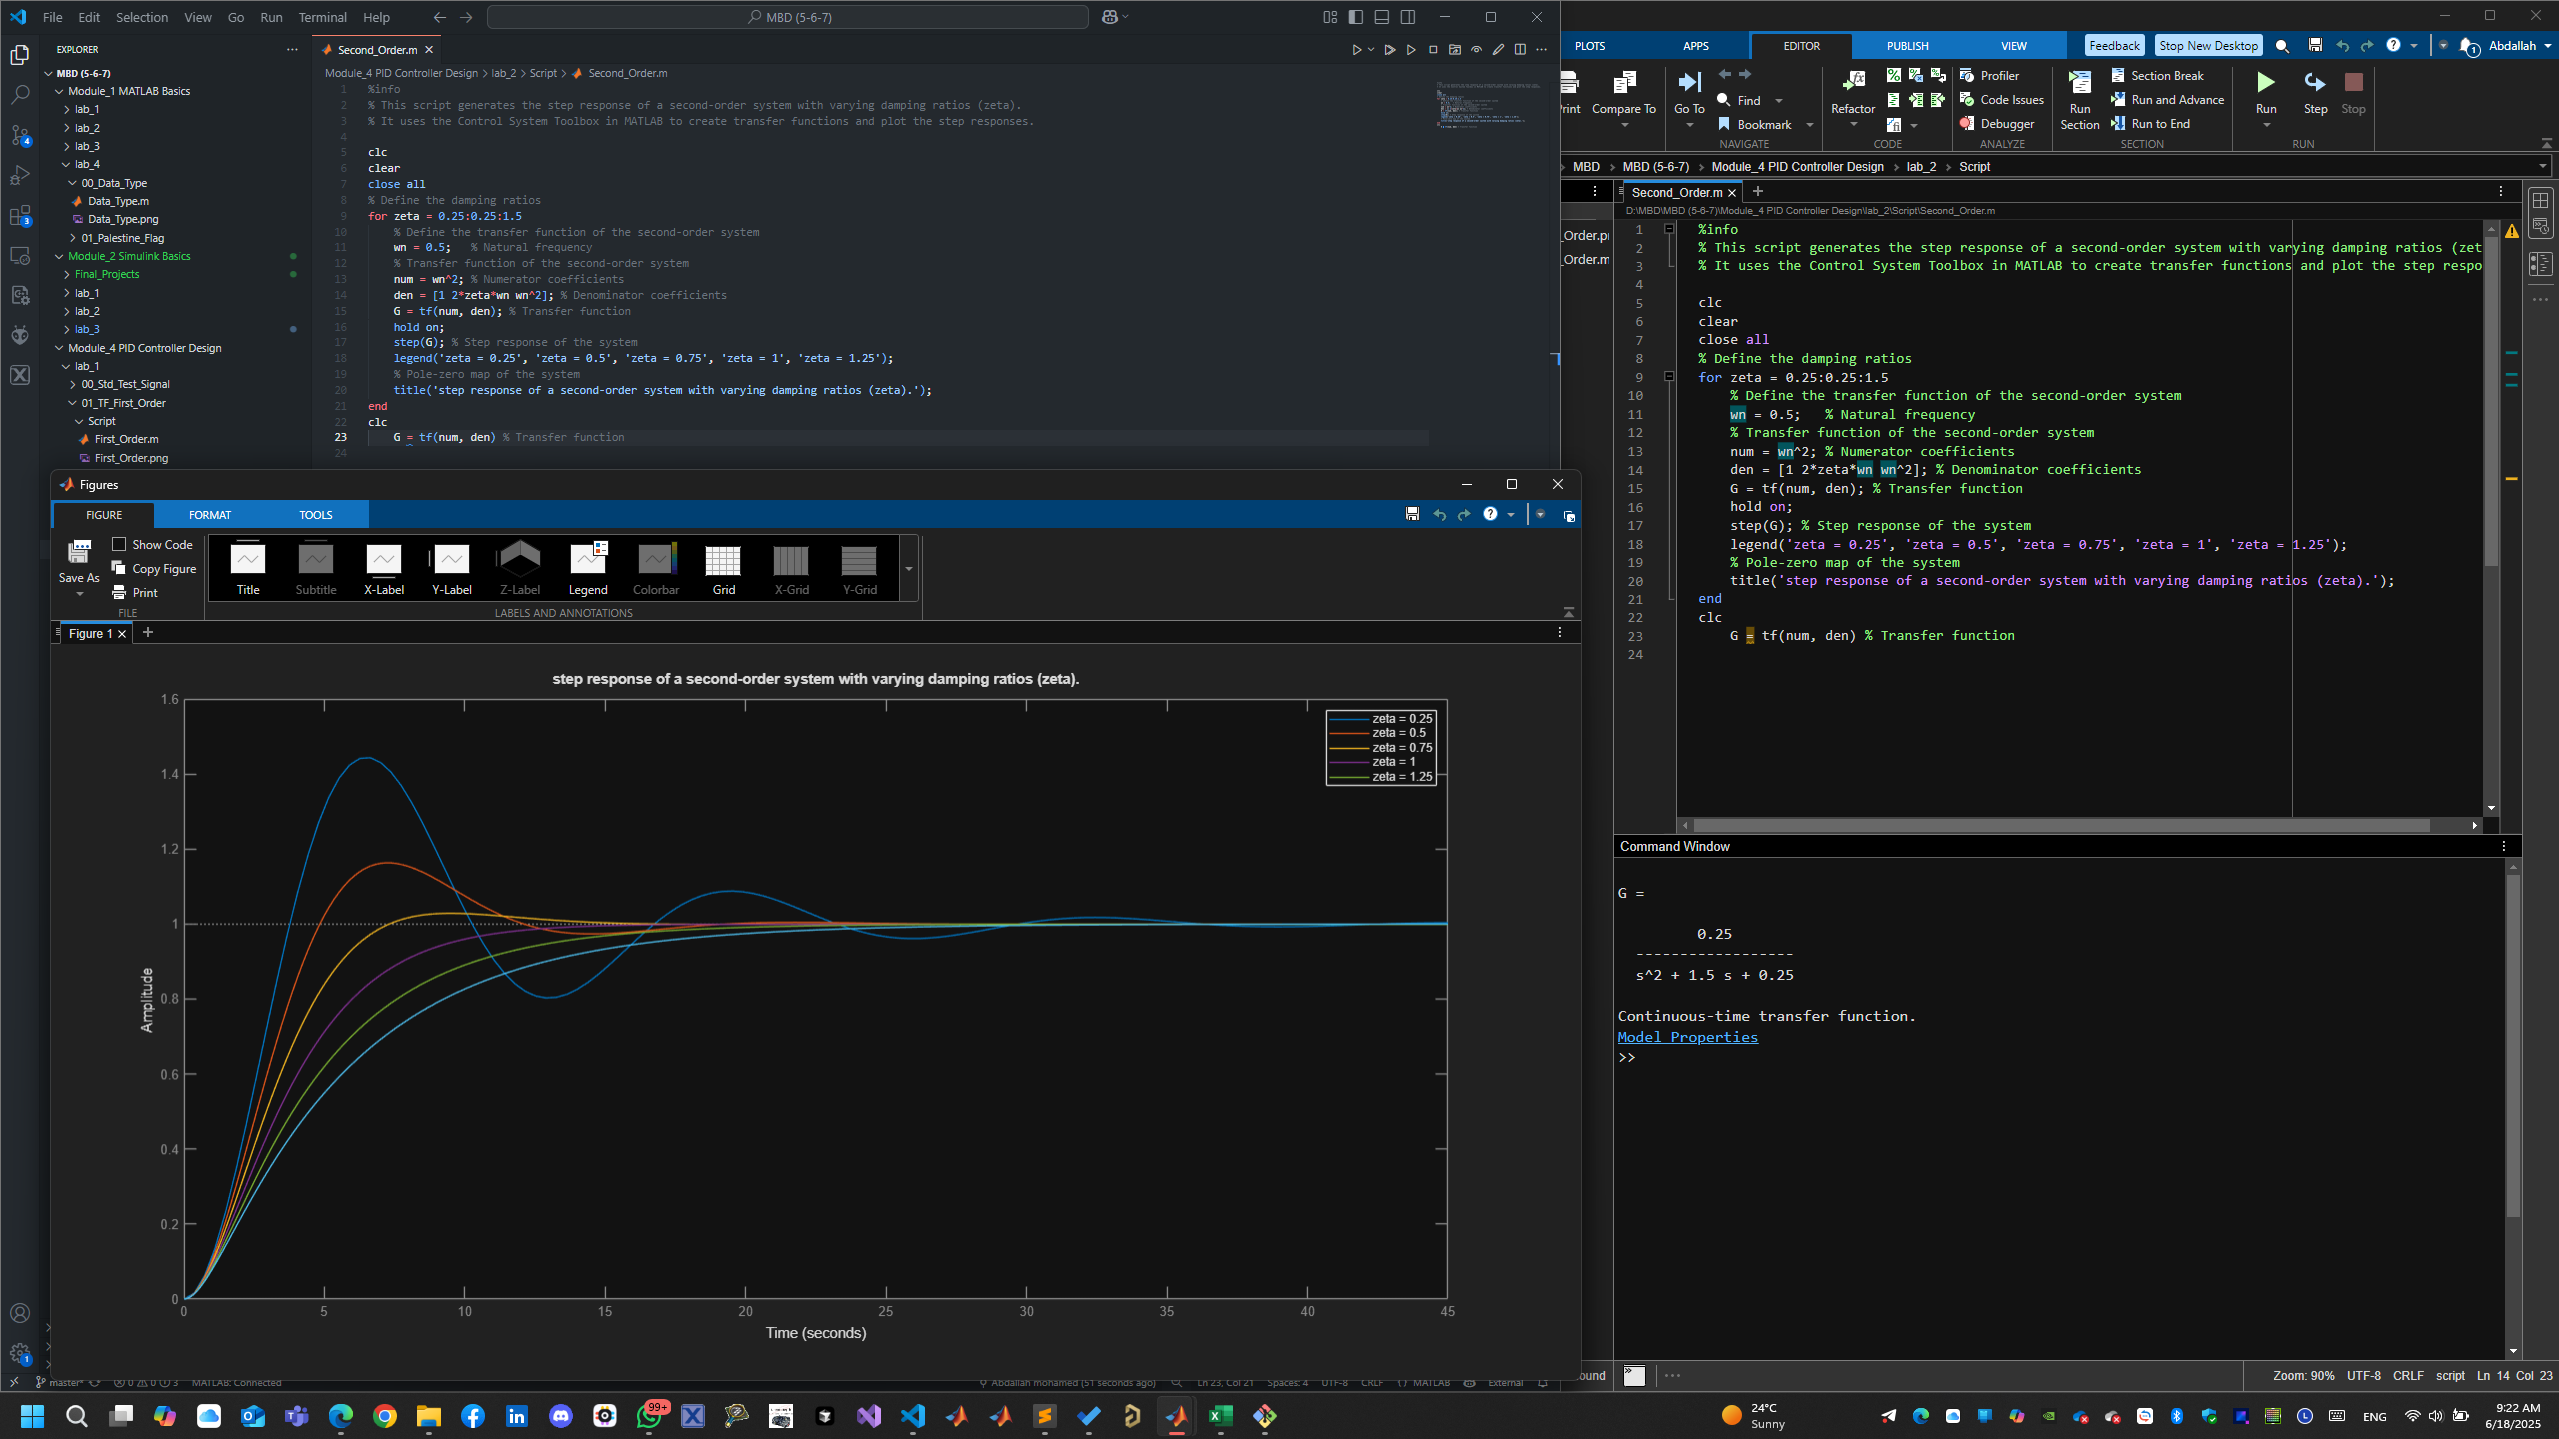
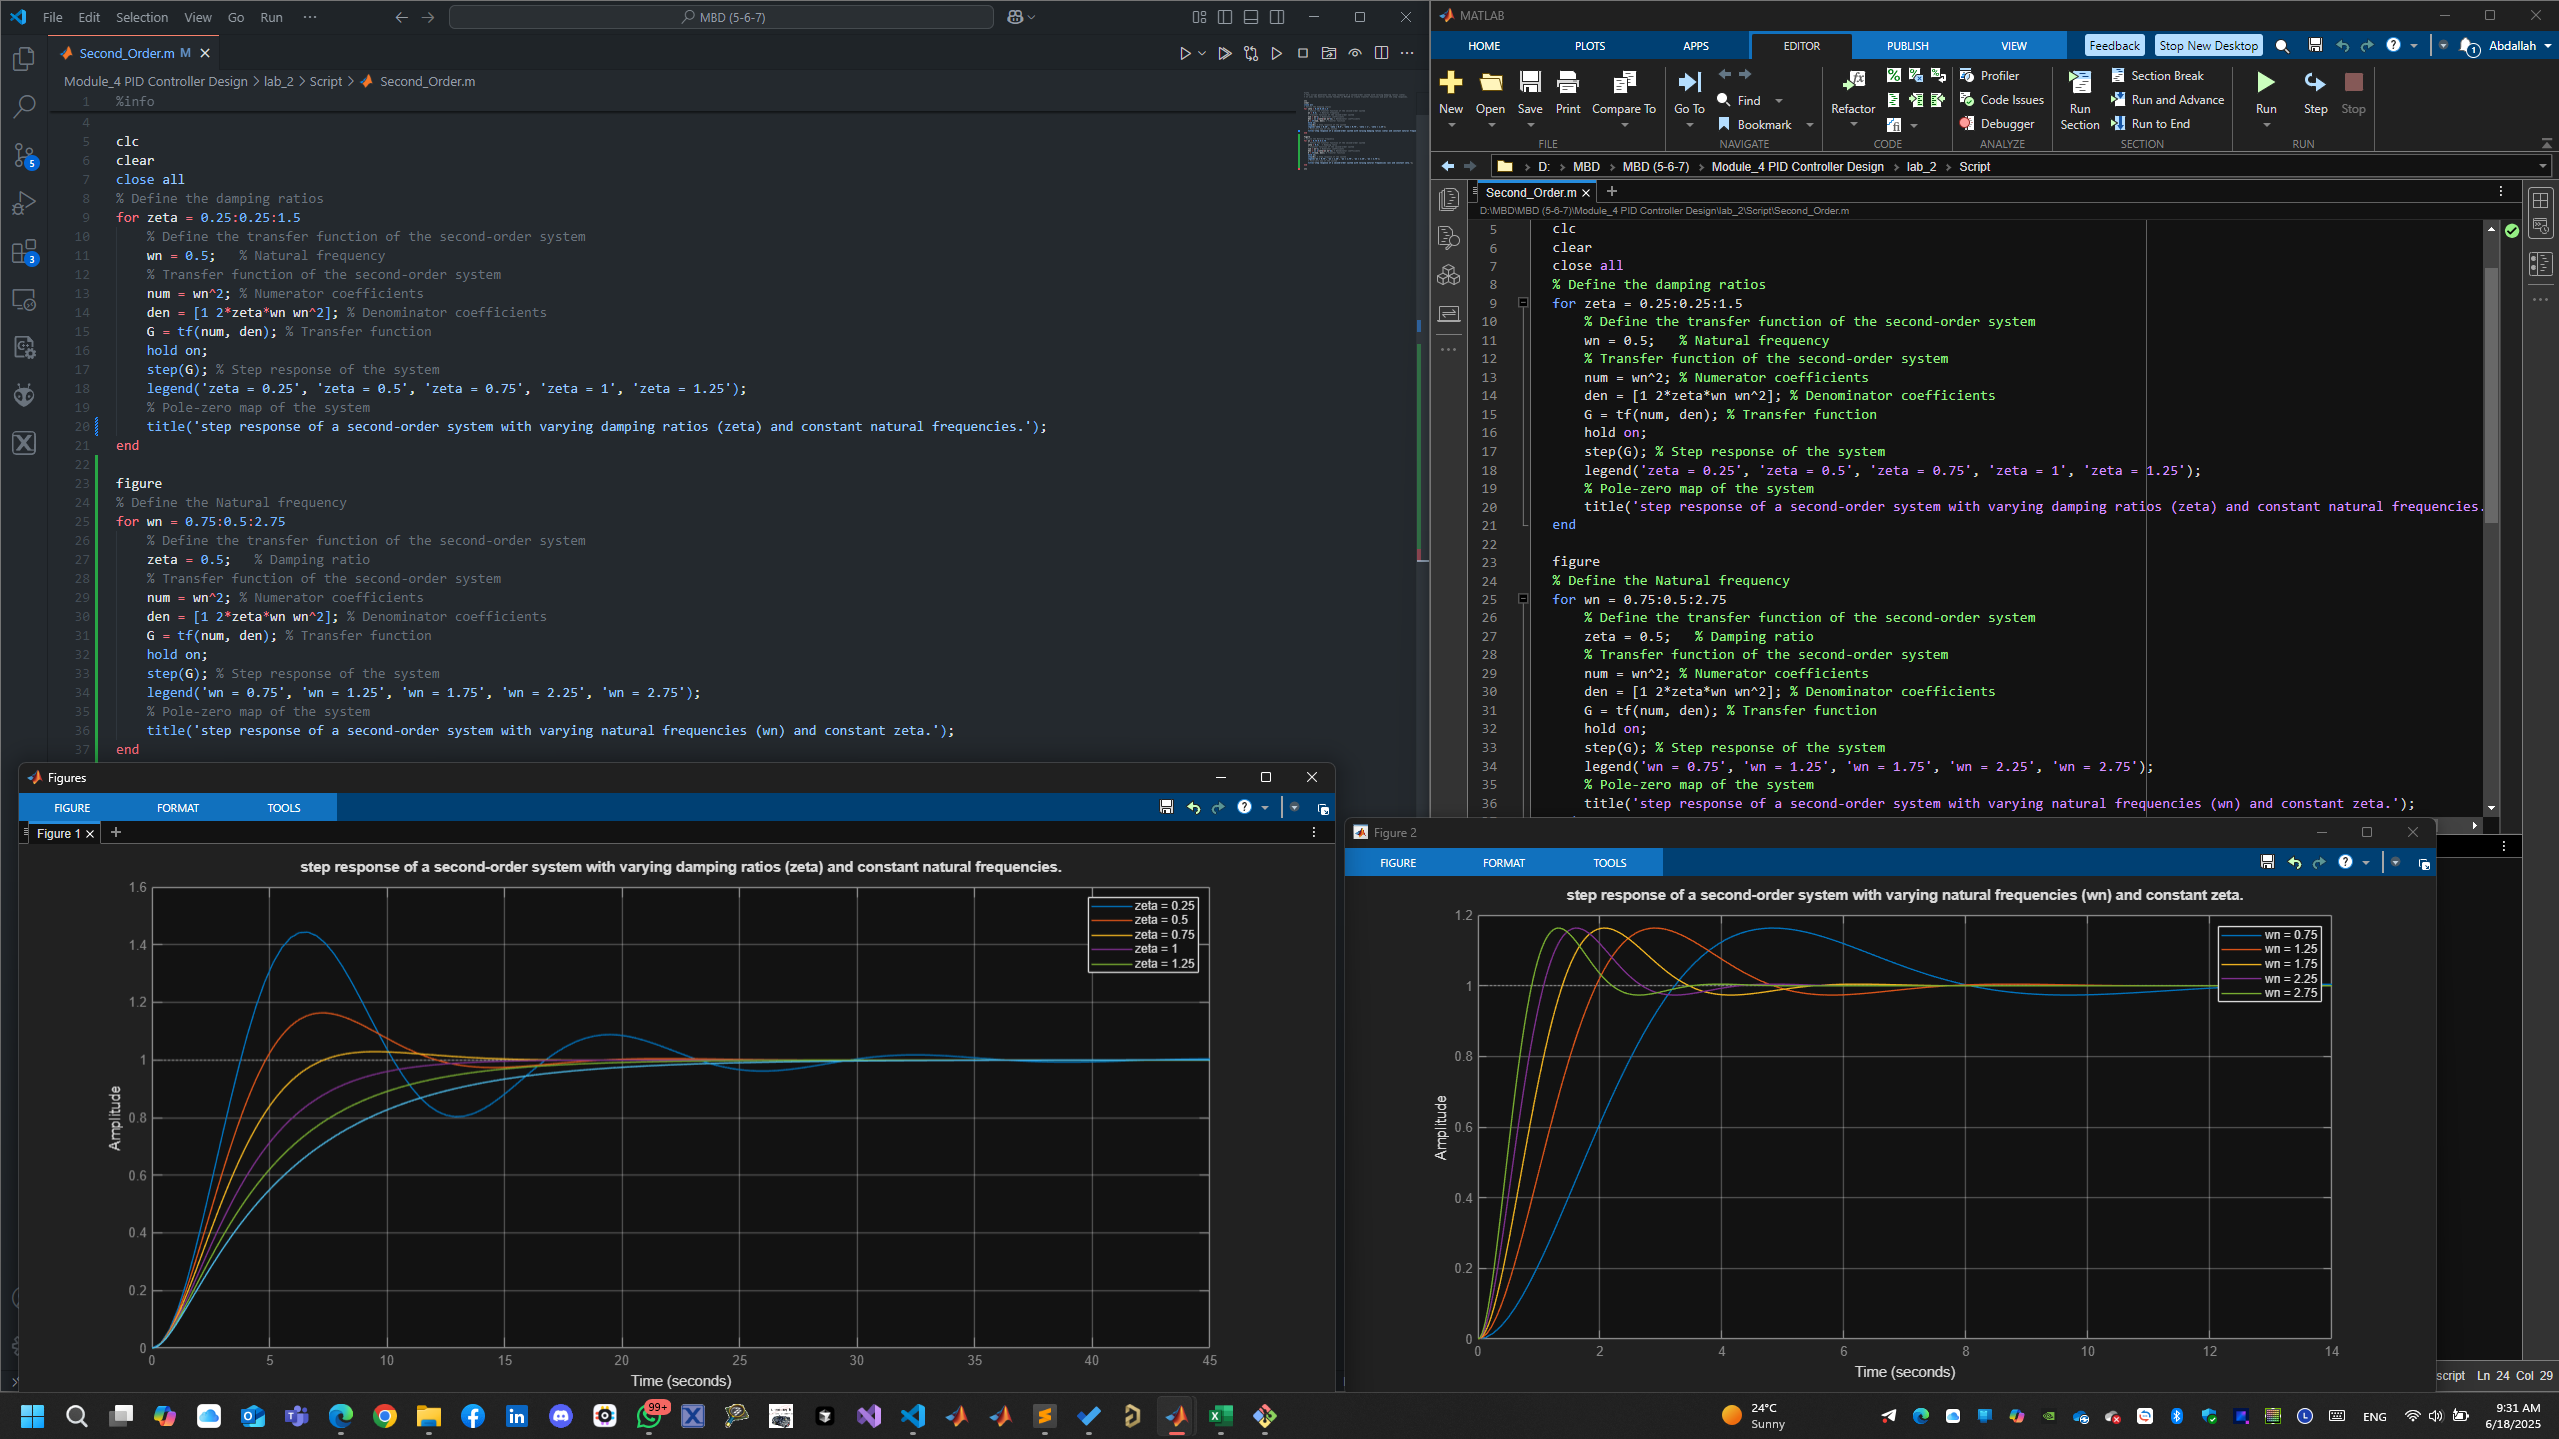
(Lab 2) --> Second order Transfer Function in .m file

diff --git a/Module_4 PID Controller Design/lab_2/Script/Second_Order.m b/Module_4 PID Controller Design/lab_2/Script/Second_Order.m
@@ -17,7 +17,23 @@ for zeta = 0.25:0.25:1.5
     step(G); % Step response of the system
     legend('zeta = 0.25', 'zeta = 0.5', 'zeta = 0.75', 'zeta = 1', 'zeta = 1.25');
     % Pole-zero map of the system
-    title('step response of a second-order system with varying damping ratios (zeta).');
+    title('step response of a second-order system with varying damping ratios (zeta) and constant natural frequencies.');
 end
+
+figure
+% Define the Natural frequency
+for wn = 0.75:0.5:2.75
+    % Define the transfer function of the second-order system
+    zeta = 0.5;   % Damping ratio
+    % Transfer function of the second-order system
+    num = wn^2; % Numerator coefficients
+    den = [1 2*zeta*wn wn^2]; % Denominator coefficients
+    G = tf(num, den); % Transfer function
+    hold on;
+    step(G); % Step response of the system
+    legend('wn = 0.75', 'wn = 1.25', 'wn = 1.75', 'wn = 2.25', 'wn = 2.75');
+    % Pole-zero map of the system
+    title('step response of a second-order system with varying natural frequencies (wn) and constant zeta.');
+end
+
 clc
-    G = tf(num, den) % Transfer function
